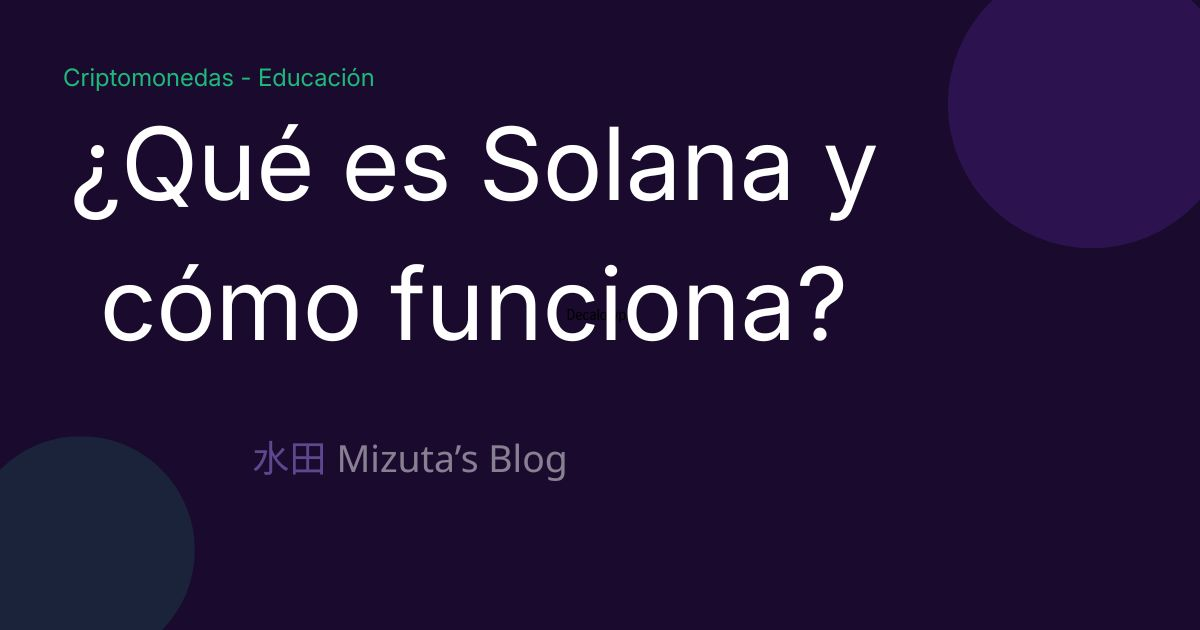
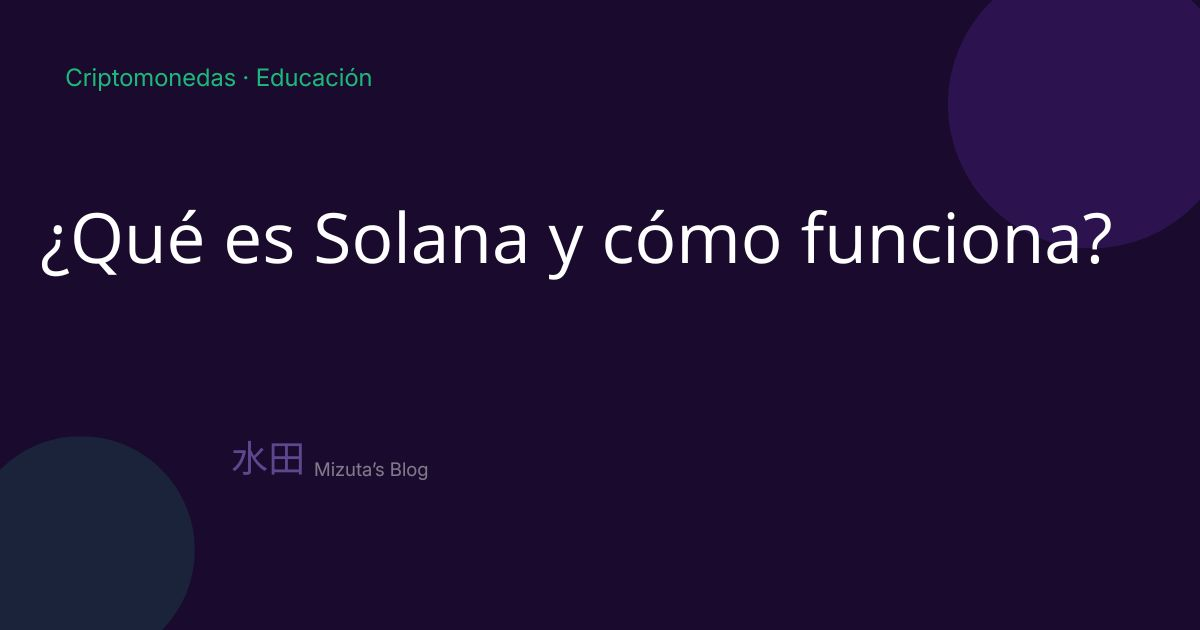
thumbnails

diff --git a/_posts/2026-04-20-bitcoin-que-es-y-como-funciona.md b/_posts/2026-04-20-bitcoin-que-es-y-como-funciona.md
@@ -4,6 +4,7 @@ title: "Bitcoin: ¿Qué es y cómo funciona? Una guía para todos"
 date: 2026-04-20
 categories: [tecnología, finanzas]
 tags: [bitcoin, criptomonedas, explicación, principiantes]
+image: /assets/images/bitcoin-que-es-y-como-funciona.jpg
 ---
 
 Seguramente has escuchado hablar de Bitcoin en las noticias, en conversaciones con amigos o incluso en la radio. Quizás te has preguntado: *¿qué es exactamente eso?* ¿Es dinero de verdad? ¿Cómo funciona? ¿Es seguro?

diff --git a/_posts/2026-04-14-como-comprar-bitcoin-en-kraken.MD b/_posts/2026-04-14-como-comprar-bitcoin-en-kraken.MD
@@ -5,6 +5,7 @@ description: "Aprende a comprar tu primer Bitcoin en Kraken en menos de 20 minut
 date: 2026-04-14
 categories: [exchanges, guias]
 tags: [bitcoin, kraken, comprar bitcoin, principiantes, europa]
+image: /assets/images/como-comprar-bitcoin-en-kraken.jpg
 ---
 
 > *Aviso: Este artículo contiene enlaces de afiliado. Si abres una cuenta a través de ellos, recibo una pequeña comisión sin coste adicional para ti.*

diff --git a/_posts/2026-04-13-Mejores-Wallets-de-Bitcoin-en-2026:-Guía-para-Principiantes.md b/_posts/2026-04-13-Mejores-Wallets-de-Bitcoin-en-2026:-Guía-para-Principiantes.md
@@ -5,6 +5,7 @@ description: "¿No sabes dónde guardar tus Bitcoin? Analizamos las mejores wall
 date: 2026-04-13
 categories: [wallets, guias]
 tags: [bitcoin, wallet, seguridad, principiantes]
+image: /assets/images/mejores-wallets-de-bitcoin.jpg
 ---
 
 > *Aviso: Este artículo contiene enlaces de afiliado. Si abres una cuenta a través de ellos, recibo una pequeña comisión sin coste adicional para ti.*

diff --git a/_posts/2026-04-22-¿Qué-es-la-Blockchain-y-por-qué-importa-en-el-mundo-cripto?.md b/_posts/2026-04-22-¿Qué-es-la-Blockchain-y-por-qué-importa-en-el-mundo-cripto?.md
@@ -4,6 +4,7 @@ title: "¿Qué es la Blockchain y por qué importa en el mundo cripto?"
 date: 2026-04-22
 categories: [Criptomonedas, Tecnología]
 tags: [blockchain, bitcoin, criptomonedas, descentralización, tecnología]
+image: /assets/images/que-es-la-blockchain.jpg
 ---
 
 ## La gran pregunta: ¿en quién confías?
